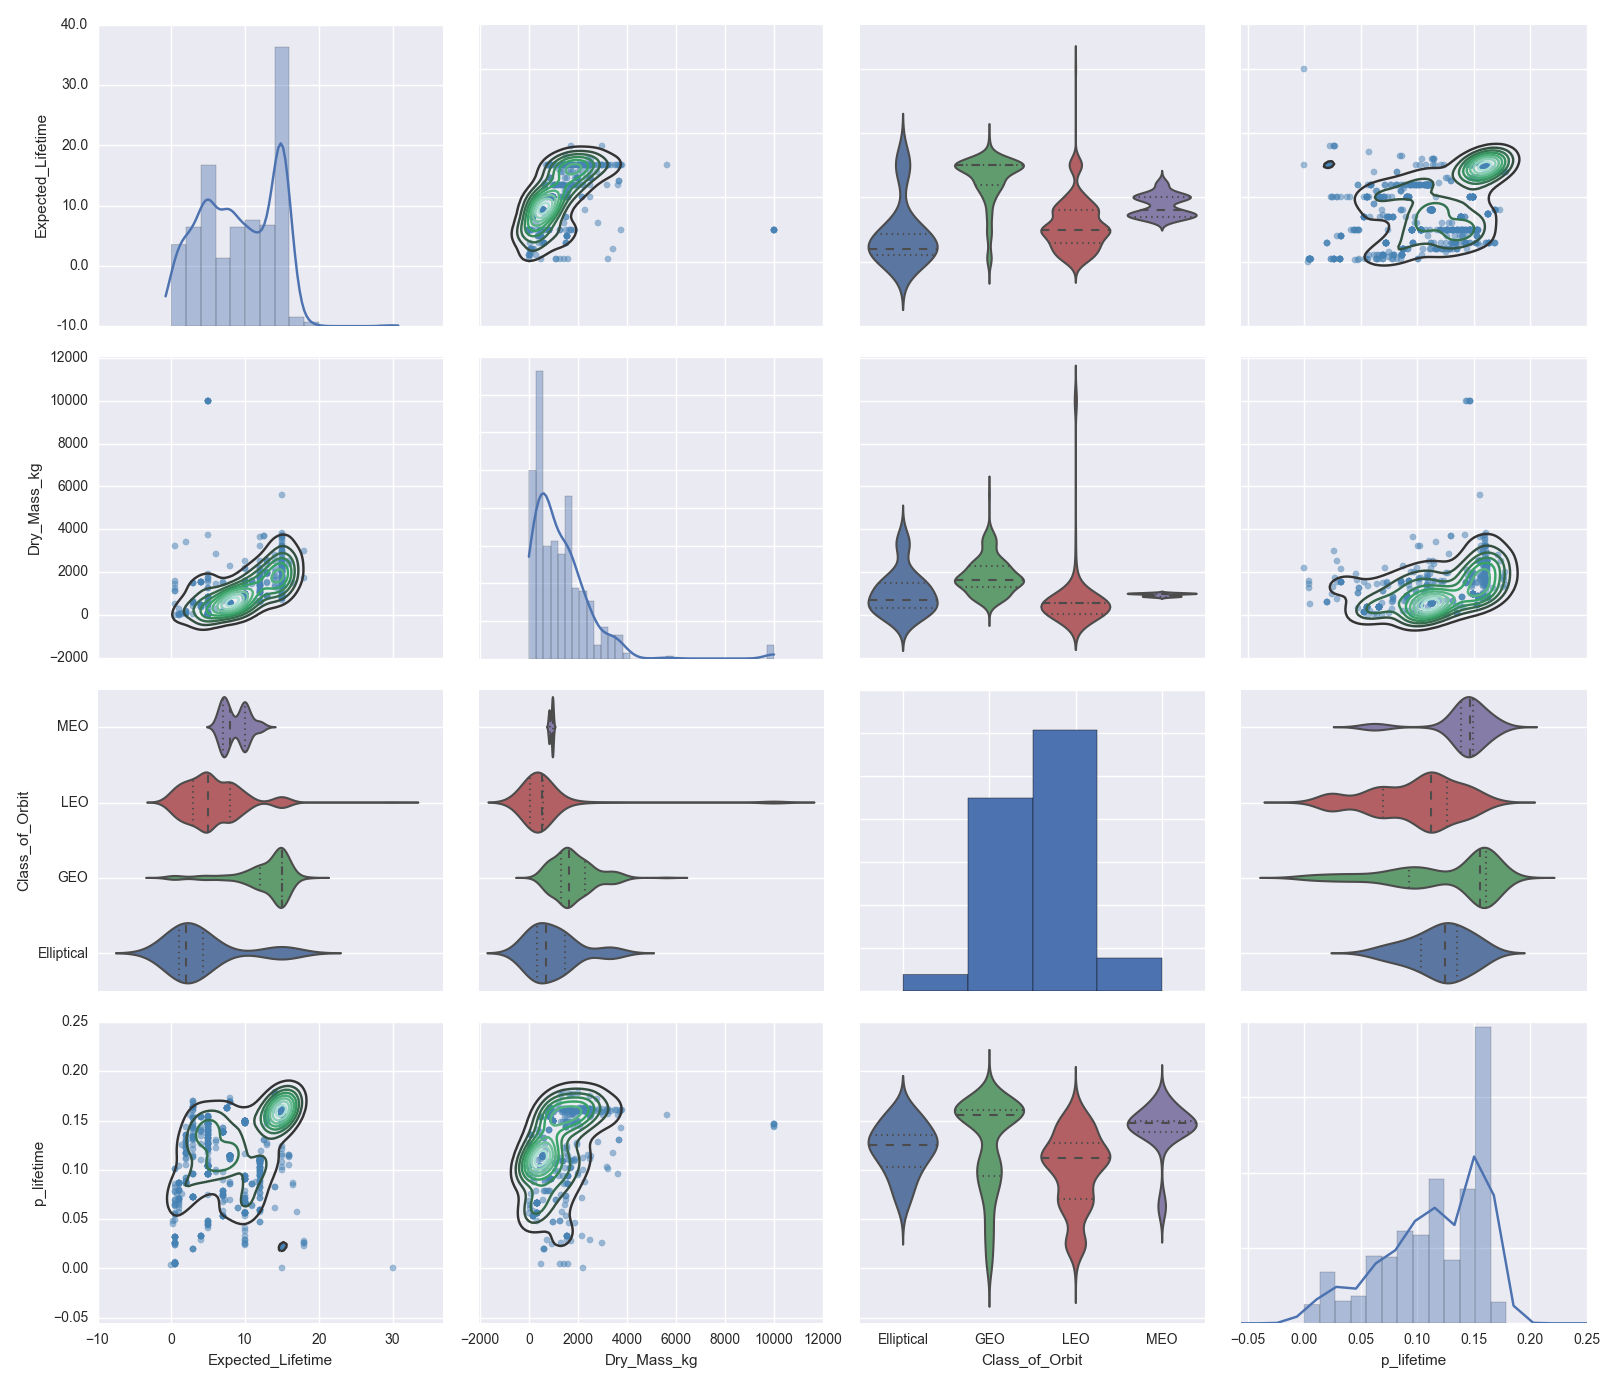
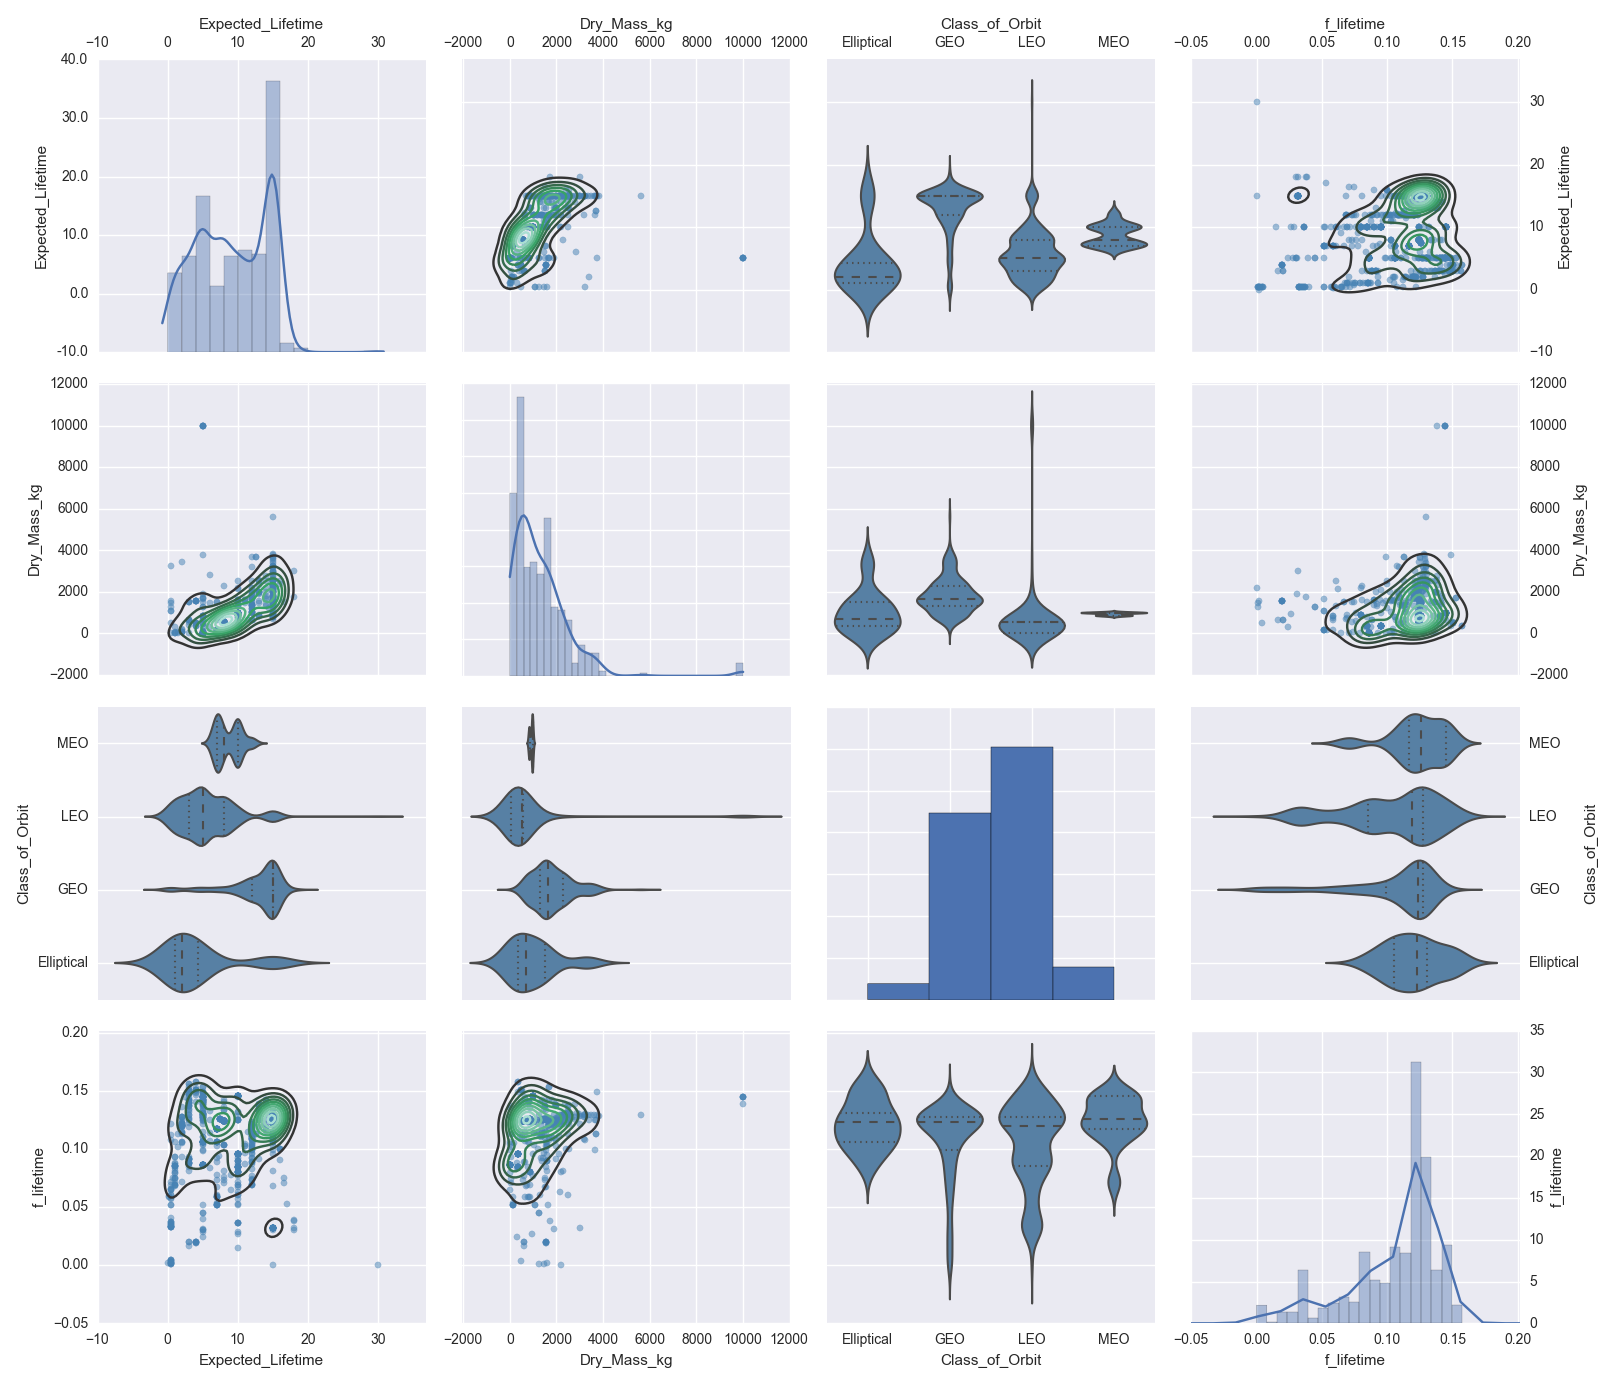
Updated README to reflect changes to pairplot

diff --git a/README.md b/README.md
@@ -96,14 +96,14 @@ Draws or saves a plot of an arbitrary BQL query
 Example:
 
     bayeslite> CREATE TEMP TABLE predprob_life AS
-          ...>     ESTIMATE Name, Expected_Lifetime,
-          ...>         PREDICTIVE PROBABILITY OF Expected_Lifetime AS p_lifetime, Class_of_Orbit
+          ...>     ESTIMATE Name, Expected_Lifetime, dry_mass_kg,
+          ...>         PREDICTIVE PROBABILITY OF Expected_Lifetime AS f_lifetime, Class_of_Orbit
           ...>     FROM satellites_cc;
-    bayeslite> .show SELECT Expected_Lifetime, dry_mass_kg, class_of_orbit, p_lifetime FROM predprob_life 
+    bayeslite> .show SELECT Expected_Lifetime, dry_mass_kg, class_of_orbit, f_lifetime FROM predprob_life;
 
 ![.show](doc/pairplot.png)
 
-    bayeslite> .show 'SELECT Expected_Lifetime, dry_mass_kg, class_of_orbit, p_lifetime FROM predprob_life' -m --no-contour --colorby Class_of_orbit
+    bayeslite> .show 'SELECT Expected_Lifetime, dry_mass_kg, Class_of_Orbit, f_lifetime FROM predprob_life;' -m --no-contour --colorby Class_of_Orbit
 
 ![.show](doc/pairplot2.png)
 
